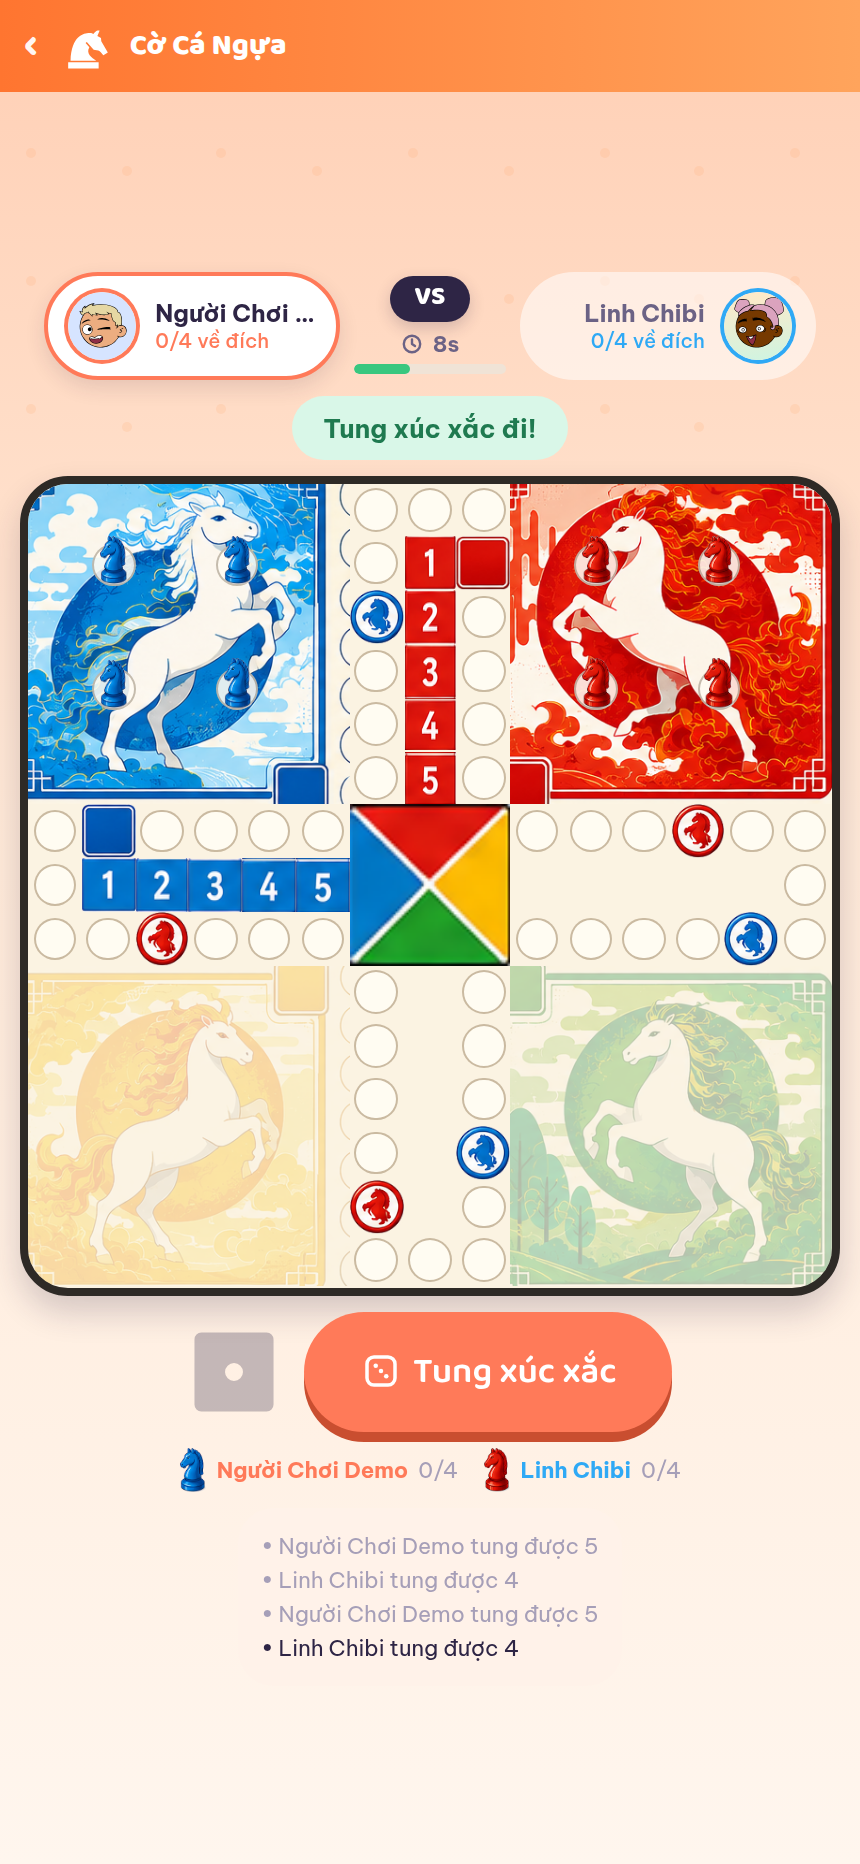
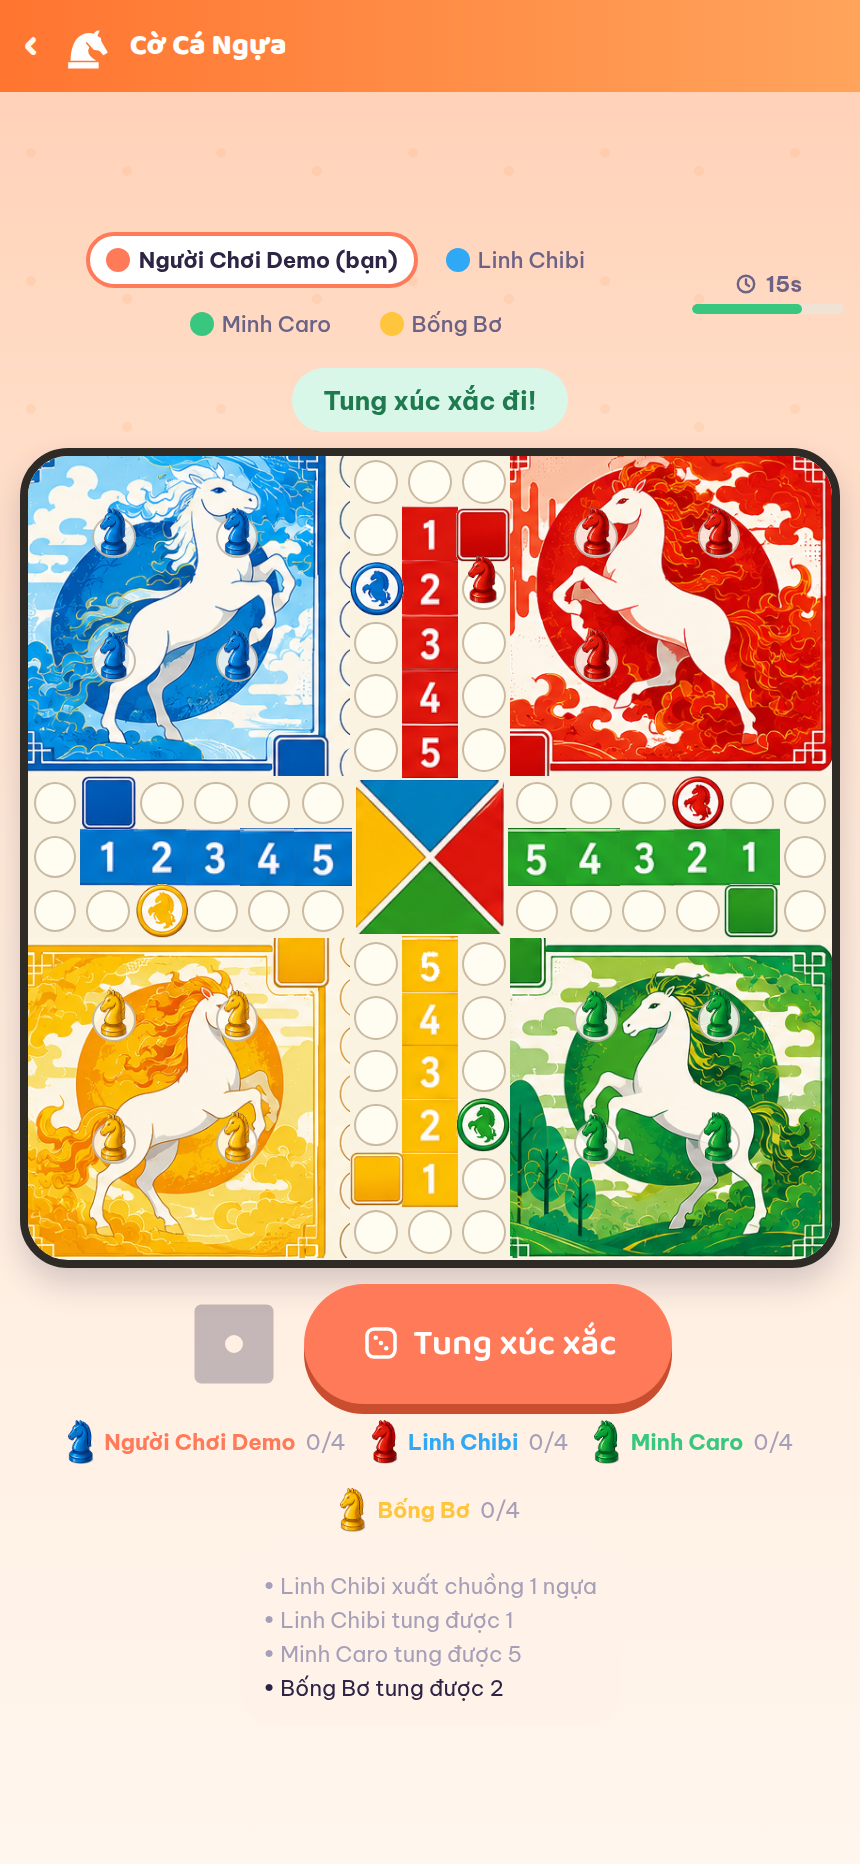
Cờ Cá Ngựa: sửa mấy mảnh asset hỏng, Quick Match gom đủ bàn 4 người
Asset:
- Hoa văn giữa trước lấy con dấu trong bảng chú thích (74x57, có khung thẻ bao
  quanh) nên phóng lên cỡ ô là vừa nhoè vừa lòi viền đen, lại bị kéo méo vì
  khung chữ nhật. Giờ cắt ngay trên bàn (118x123) và giữ đúng tỉ lệ.
- Ô cầu về chuồng cắt sát mép nên lát liền nhau vẫn hở một sợi; nới mỗi bên 1px
  và dùng cover thay vì stretch.
- Bản vẽ gốc đánh nhầm cột số màu vàng: 6, 6, 4, 3, 2, 1 — thiếu số 5. Script
  dựng lại ô đó, xoá chữ trên nền vàng rồi in chữ 5 lấy từ màu khác.

Quick Match: game nhiều người giờ chờ gom đủ bàn trước — 15 giây đầu chỉ mở
trận khi đủ maxPlayers, quá hạn thì mở với số người đang có. Trước đây Cá Ngựa
cứ đủ 2 người là vào luôn nên gần như không bao giờ có bàn 4.

diff --git a/apps/server/src/realtime/matchmaking.ts b/apps/server/src/realtime/matchmaking.ts
@@ -55,6 +55,9 @@ export function queueSizes(): Record<string, number> {
  * Ghép trận theo game + mode + region. Ranked dùng cửa sổ rating nới dần theo
  * thời gian chờ (skill-based matchmaking cơ bản); Normal ghép theo thứ tự vào hàng.
  */
+/** Chờ tối đa ngần này để gom đủ bàn cho game nhiều người rồi mới mở trận. */
+const FILL_WAIT_MS = 15_000;
+
 export function findMatches(): { gameType: GameType; mode: GameMode; entries: QueueEntry[] }[] {
   const results: { gameType: GameType; mode: GameMode; entries: QueueEntry[] }[] = [];
   const now = Date.now();
@@ -76,8 +79,16 @@ export function findMatches(): { gameType: GameType; mode: GameMode; entries: Qu
       );
       if (candidates.length < need) break;
       const chosen = candidates.slice(0, Math.min(meta.maxPlayers, candidates.length));
-      // Chỉ lấy đủ số người cần; số dư chờ lượt ghép sau.
-      const take = chosen.length >= need ? chosen.slice(0, need === meta.maxPlayers ? need : chosen.length) : [];
+      /**
+       * Game nhiều người (Cá Ngựa, Cờ Tỷ Phú, Ma Sói) chơi hay nhất khi đủ bàn,
+       * nên chờ thêm một lúc để gom cho đủ `maxPlayers`. Quá thời gian chờ mà
+       * vẫn chưa đủ thì mở trận với số người đang có, miễn không dưới mức tối
+       * thiểu — thà bàn thiếu người còn hơn bắt chờ mãi.
+       */
+      const wantFull = meta.maxPlayers > need && waited < FILL_WAIT_MS;
+      const want = wantFull ? meta.maxPlayers : need;
+      if (chosen.length < want) break;
+      const take = chosen.slice(0, Math.min(meta.maxPlayers, chosen.length));
       if (take.length < need) break;
       results.push({ gameType, mode, entries: take });
       const takenIds = new Set(take.map((e) => e.userId));

diff --git a/apps/mobile/src/games/LudoBoard.tsx b/apps/mobile/src/games/LudoBoard.tsx
@@ -198,8 +198,10 @@ export default function LudoBoard({ view, mySeat, send, deadline, space }: Board
                 <Image
                   key={`lane${seat}-${k}`}
                   source={LUDO_LANE[artOf(seat)][k]}
-                  resizeMode="stretch"
-                  style={{ position: 'absolute', ...at(col, row), width: cell, height: cell }}
+                  // Ảnh cắt sát mép nên lát liền nhau vẫn hở một sợi; nới ra
+                  // 1px mỗi bên để các ô dính vào nhau thành một dải.
+                  resizeMode="cover"
+                  style={{ position: 'absolute', left: col * cell - 1, top: row * cell - 1, width: cell + 2, height: cell + 2 }}
                 />
               ))
             : null,
@@ -249,10 +251,17 @@ export default function LudoBoard({ view, mySeat, send, deadline, space }: Board
         })}
 
         {/* Hoa văn bốn cánh ở giữa */}
+        {/* Hoa văn giữa giữ đúng tỉ lệ gốc, đặt vào giữa khối 3x3 */}
         <Image
           source={LUDO_CENTER}
-          resizeMode="stretch"
-          style={{ position: 'absolute', ...at(6, 6), width: cell * 3, height: cell * 3 }}
+          resizeMode="contain"
+          style={{
+            position: 'absolute',
+            left: cell * 6.05,
+            top: cell * 6.05,
+            width: cell * 2.9,
+            height: cell * 2.9,
+          }}
         />
 
         {/* Ngựa còn trong chuồng */}

diff --git a/apps/mobile/src/art/ludo.ts b/apps/mobile/src/art/ludo.ts
@@ -52,7 +52,7 @@ export const LUDO_RATIO: Record<string, number> = {
   "yard-red": 1.0,
   "yard-green": 1.0,
   "yard-yellow": 1.0,
-  "center": 1.2982,
+  "center": 0.9593,
   "horse-blue": 0.5776,
   "horse-red": 0.6068,
   "horse-yellow": 0.5776,

diff --git a/apps/mobile/scripts/slice-ludo-art.py b/apps/mobile/scripts/slice-ludo-art.py
@@ -41,9 +41,11 @@ GRID_CELL = 59.75
 YARD_INSET = 8
 YARDS = {"blue": (0, 0), "red": (9, 0), "green": (9, 9), "yellow": (0, 9)}
 
-# Hoa văn bốn cánh: lấy bản in trong bảng chú thích ("Ô TRUNG TÂM") vì bản trên
-# bàn bị mấy mũi tên cầu về chuồng chèn vào.
-CENTER_BOX = (1057, 952, 1131, 1009)
+# Hoa văn bốn cánh: lấy ngay trên bàn chứ đừng lấy con dấu trong bảng chú thích
+# — con dấu chỉ 74x57 và có khung thẻ bao quanh, phóng lên cỡ ô là vừa nhoè vừa
+# lòi ra cái viền đen. Bản trên bàn to hơn và nằm gọn trên nền kem, cắt đặc luôn
+# vì nền kem trùng với nền bàn trong app.
+CENTER_BOX = (410, 426, 528, 549)
 
 # Mảnh rời trong bảng chú thích bên phải (toạ độ trên bản vẽ gốc).
 PIECES = {
@@ -98,6 +100,30 @@ def cutout(im, mask, box):
     return piece
 
 
+def restamp(base, donor):
+    """Thay chữ số trên một ô bằng chữ số của ô khác cùng cỡ.
+
+    Chữ số là nét trắng nằm giữa ô, nền là mảng màu đặc. Xoá chữ cũ bằng cách
+    tô lại màu nền, rồi vẽ nét trắng lấy từ ô mẫu (đã co về đúng cỡ).
+    """
+    out = base.convert("RGBA")
+    a = np.array(out).astype(float)
+    rgb, alpha = a[:, :, :3], a[:, :, 3]
+
+    inside = alpha > 200
+    glyph = inside & (rgb.min(2) > 190)
+    fill = np.median(rgb[inside & ~glyph], 0) if (inside & ~glyph).any() else np.array([230, 170, 30])
+    rgb[glyph] = fill
+
+    d = np.array(donor.convert("RGBA").resize(out.size, Image.LANCZOS)).astype(float)
+    dmask = np.clip((d[:, :, :3].min(2) - 170) / 60, 0, 1) * (d[:, :, 3] / 255)
+    for c in range(3):
+        rgb[:, :, c] = rgb[:, :, c] * (1 - dmask) + 255 * dmask
+
+    a[:, :, :3] = rgb
+    return Image.fromarray(a.astype("uint8"), "RGBA")
+
+
 def cell_box(col, row, cols=1, rows=1, inset=0):
     """Khung pixel của một vùng ô trên bàn, tính theo lưới 15x15."""
     x0 = BOARD[0] + GRID_ORIGIN + col * GRID_CELL + inset
@@ -126,18 +152,27 @@ def main():
     for color, (col, row) in YARDS.items():
         save(f"yard-{color}", im.crop(cell_box(col, row, 6, 6, YARD_INSET)))
 
-    save("center", cutout(im, mask, CENTER_BOX))
+    save("center", im.crop(CENTER_BOX))
 
     for name, box in PIECES.items():
         save(name, cutout(im, mask, box))
 
     # Mỗi dải chia đều 6 ô; bản vẽ xếp số 6 ở trên nên đảo lại cho 1 nằm đầu.
+    lane_tiles = {}
     for color, (x0, y0, x1, y1) in LANE_STRIPS.items():
         step = (y1 - y0) / 6
         for k in range(6):
             top = int(round(y0 + (5 - k) * step))
             bottom = int(round(y0 + (6 - k) * step))
-            save(f"lane-{color}-{k + 1}", cutout(im, mask, (x0, top, x1, bottom)))
+            lane_tiles[(color, k + 1)] = cutout(im, mask, (x0, top, x1, bottom))
+
+    # Bản vẽ gốc đánh nhầm cột vàng: đọc từ trên xuống là 6, 6, 4, 3, 2, 1 —
+    # thiếu hẳn số 5. Dựng lại ô đó: lấy nền vàng của một ô cùng cột, xoá chữ cũ
+    # rồi in chữ 5 lấy từ ô cùng số của màu khác (chữ số vẽ giống hệt nhau).
+    lane_tiles[("yellow", 5)] = restamp(lane_tiles[("yellow", 5)], lane_tiles[("blue", 5)])
+
+    for (color, k), img in lane_tiles.items():
+        save(f"lane-{color}-{k}", img)
 
     colors = list(YARDS)
     lane_entries = "\n".join(

diff --git a/README.md b/README.md
@@ -343,6 +343,13 @@ lại bằng **lưới 15×15 đều đặn** trong app:
 - Cầu về chuồng chỉ vẽ **5 ô**: lưới 15×15 chừa đúng 5 ô giữa mép chuồng và hoa
   văn giữa, còn ô thứ 6 của engine chính là về đích (`lane === 5` là `done`).
 - Bàn luôn vẽ đủ bốn góc, góc không có người chơi thì làm mờ.
+- Bản vẽ gốc đánh nhầm cột số của màu vàng: đọc từ trên xuống là 6, 6, 4, 3, 2,
+  1 — thiếu hẳn số 5. Script dựng lại ô đó bằng cách xoá chữ trên nền vàng rồi
+  in chữ 5 lấy từ ô cùng số của màu khác.
+
+Quick Match với game nhiều người (Cá Ngựa, Cờ Tỷ Phú, Ma Sói) **chờ gom đủ bàn**
+trước: trong 15 giây đầu chỉ mở trận khi đủ `maxPlayers`, quá thời gian đó thì
+mở với số người đang có miễn không dưới mức tối thiểu.
 
 **Không dùng emoji ở bất kỳ đâu trong giao diện** — emoji mỗi hệ điều hành vẽ một
 kiểu, không đổi được màu theo ngữ cảnh và không canh được nét với chữ.
